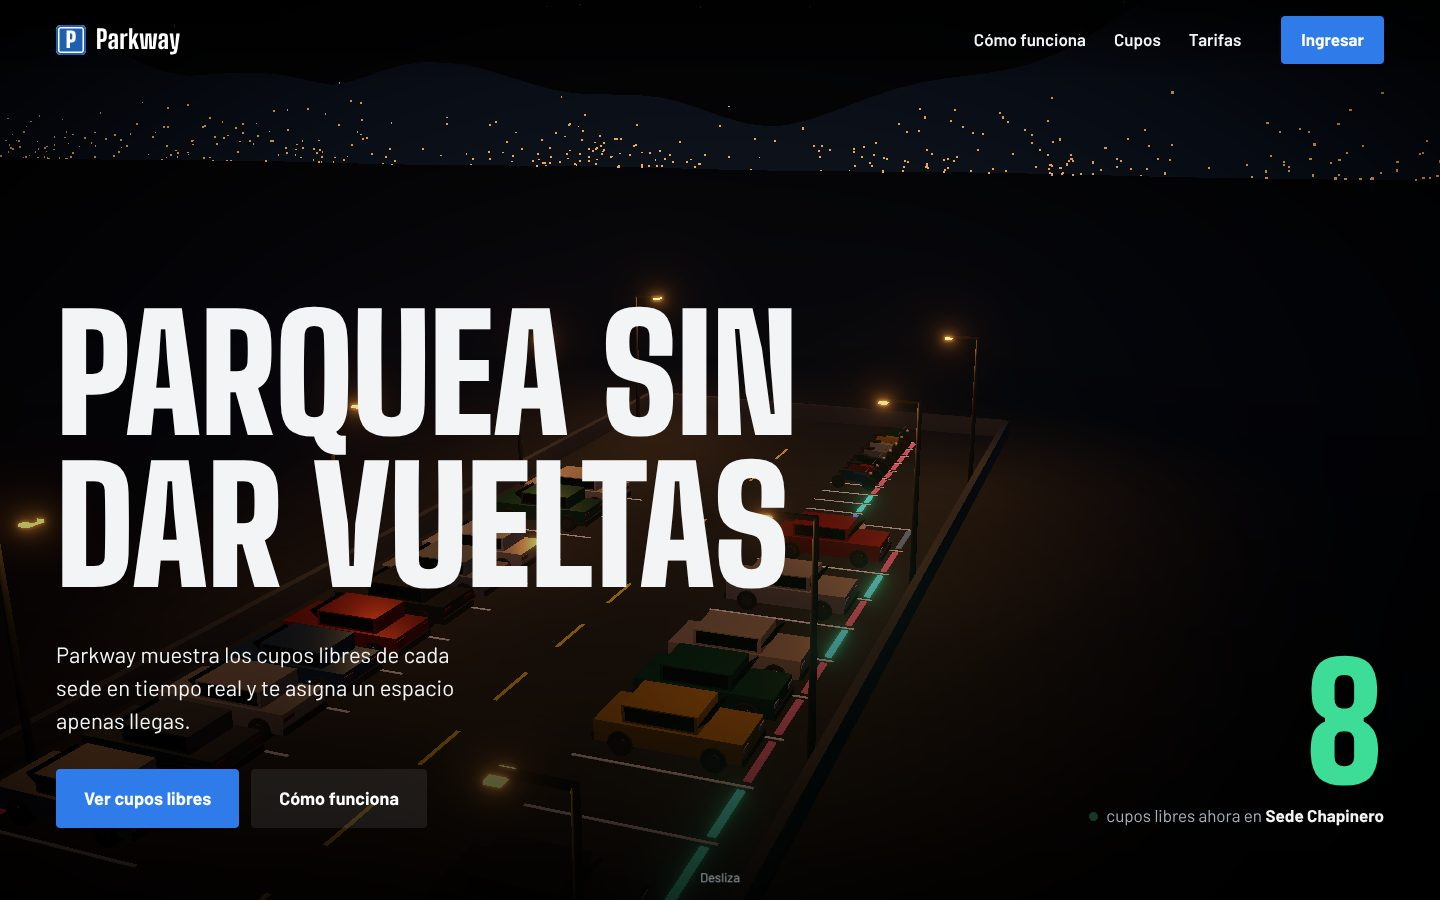
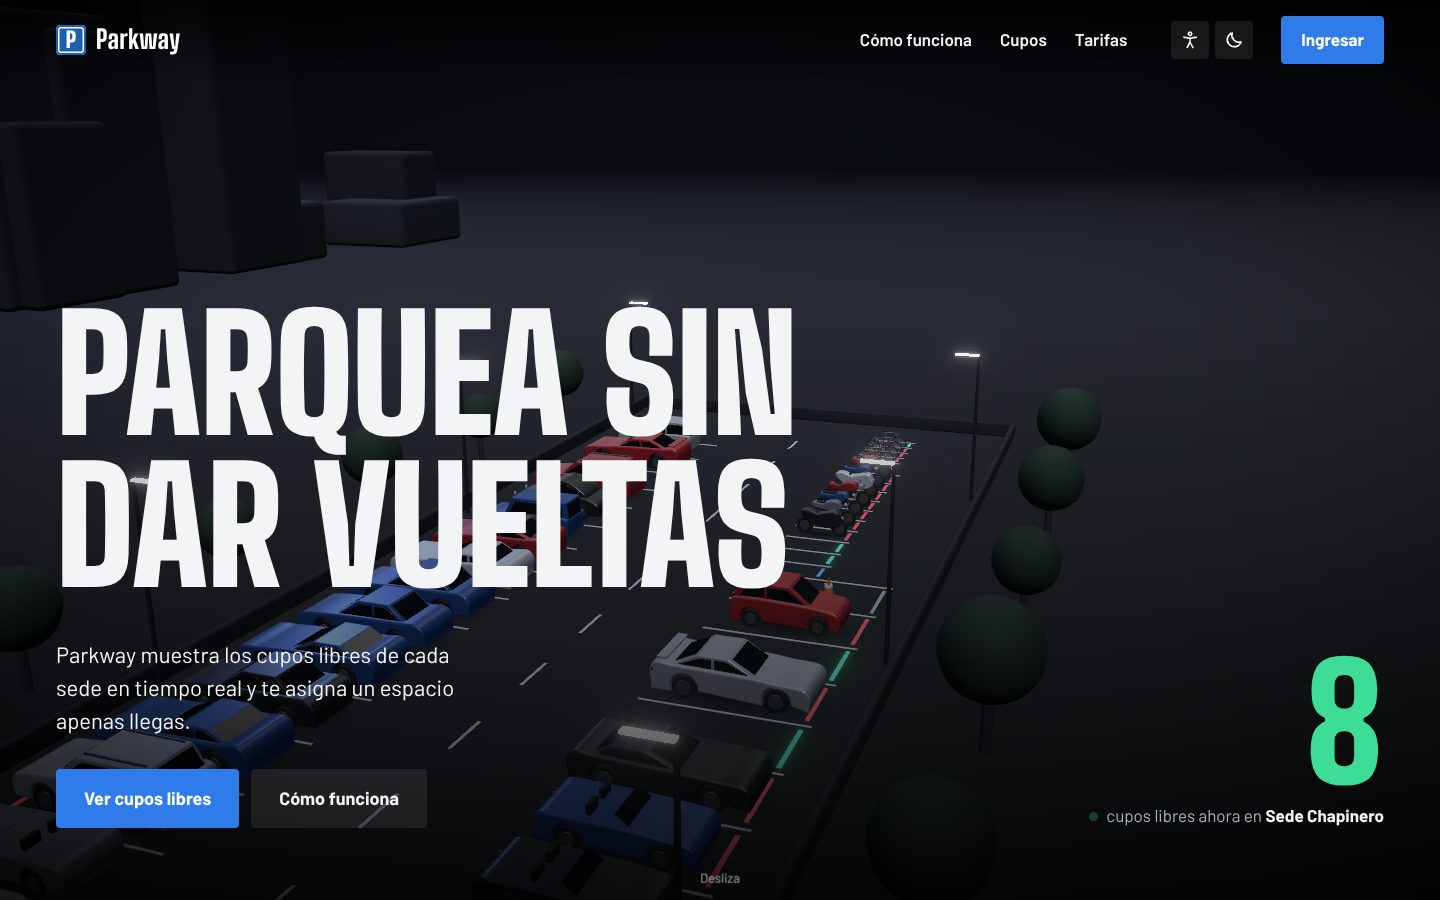
Documentación y capturas de las nuevas funciones

diff --git a/README.md b/README.md
@@ -2,8 +2,9 @@
 
 Sistema transaccional para la gestión de parqueaderos. Muestra los cupos
 libres de cada sede en tiempo real, registra ingresos y salidas con cálculo
-automático del cobro, permite a los clientes reservar un espacio antes de
-llegar y deja cada operación en una bitácora.
+automático del cobro, permite a los clientes reservar un espacio dentro del
+horario de la sede y deja cada operación en una bitácora. El administrador
+crea las sedes con sus espacios, tarifas, horario y operadores.
 
 Proyecto de Sistemas Transaccionales, Universidad Manuela Beltrán.
 Grupo 2: Bryan Failach, Alejandro Castellanos y Brayan Bello.
@@ -26,9 +27,13 @@ en pocos segundos.
 | Rol | Funciones |
 | --- | --- |
 | Visitante | Ver los cupos libres por sede, el recorrido de cómo funciona y calcular el cobro. |
-| Cliente | Crear su cuenta, registrar sus vehículos, reservar un espacio por 30 minutos, ver su vehículo dentro con el valor acumulado y consultar su historial. |
-| Operador | Registrar ingresos (con asignación automática de espacio) y salidas, ver las reservas que vienen en camino, los vehículos dentro, el plano 3D y el historial del día. |
-| Administrador | Todo lo del operador, más la bitácora de transacciones. |
+| Cliente | Crear su cuenta, registrar sus vehículos (las bicicletas reciben un código BICI), reservar un espacio por 30 minutos dentro del horario de la sede, ver su vehículo dentro con el valor acumulado, configurar avisos de tiempo y dinero y consultar su historial. |
+| Operador | Registrar ingresos y salidas en las sedes que tiene asignadas. Al digitar una placa conocida, el formulario trae la marca y el color guardados. Ve las reservas en camino, los vehículos dentro, el plano 3D y 2D y el historial con filtros. |
+| Administrador | Todo lo del operador en todas las sedes, más la creación y edición de sedes (espacios, tarifas, horario, espacios fuera de servicio y operadores) y la bitácora de transacciones. |
+
+Todos los usuarios pueden cambiar entre modo oscuro y claro y ajustar la
+accesibilidad: tamaño del texto, alto contraste, movimiento reducido, letra de
+lectura fácil, símbolos de estado en el plano y plano 2D en lugar del 3D.
 
 El detalle de cada pantalla, con capturas, está en
 [docs/FRONTEND.md](docs/FRONTEND.md).
@@ -47,7 +52,10 @@ El detalle de cada pantalla, con capturas, está en
 | Actualización de la disponibilidad sin recargar la página | RF12 | Consulta cada 5 s. WebSocket en la siguiente fase |
 | Historial de salidas y totales del día | RF13 | Implementado |
 | Bitácora de transacciones con consulta para el administrador | RF14, RNF08 | Implementado |
-| Pagos y comprobantes, anulación, gestión de tarifas y usuarios | RF02, RF08, RF09, RF11 | Siguiente fase |
+| Gestión de sedes: espacios, tarifas por sede, horario, fuera de servicio y operadores asignados | RF11 | Implementado |
+| Horario de atención: no se aceptan reservas fuera del horario | RF10 | Implementado |
+| Notificaciones configurables de tiempo, valor y vencimiento de la reserva | RF03 | Implementado |
+| Pagos y comprobantes, anulación, gestión de usuarios | RF02, RF08, RF09 | Siguiente fase |
 | Predicción de ocupación con IA | RF15 | Diseñado en el documento maestro (sección 13) |
 
 ## Tecnologías
@@ -130,6 +138,25 @@ minutos iniciada por el valor de la fracción. El cobro de un día nunca supera
 el valor día. Ejemplo para automóvil: 1 h 20 min cuesta $4.000 + 2 × $1.500 =
 $7.000.
 
+**Datos guardados del vehículo.** Cuando el operador digita una placa que ya
+existe, el formulario de ingreso trae la marca y el color guardados y dice de
+quién es el vehículo. El operador puede cambiarlos; al registrar, el vehículo
+queda con los datos que confirmó.
+
+**Bicicletas.** No tienen placa. Al agregar una bicicleta, el cliente recibe
+un código único (BICI001, BICI002...) que le dice al operador al llegar. En el
+ingreso, el operador busca el código; si la bicicleta llega sin registro, el
+sistema genera uno nuevo.
+
+**Sedes y operadores.** Cada sede tiene sus propias tarifas y su horario por
+día de la semana. Un operador solo puede registrar ingresos y salidas en las
+sedes que el administrador le asignó. Al reducir los espacios de una sede se
+quitan los libres de número más alto que nunca se usaron; los que tienen
+historial se conservan.
+
+**Horario.** El cliente no puede reservar si la sede está cerrada o si cierra
+antes de que venza la reserva.
+
 **Reservas (RF10).** El cliente reserva con uno de sus vehículos y el sistema
 aparta el primer espacio libre de ese tipo, que queda RESERVADO y no se cuenta
 como libre. Tiene 30 minutos para llegar (`RESERVA_MINUTOS` en `backend/.env`).
@@ -144,9 +171,9 @@ la reserva se cancela.
 - Un espacio no puede quedar asignado a dos vehículos, ni con varios
   operadores registrando ingresos al mismo tiempo (`FOR UPDATE SKIP LOCKED` e
   índices únicos parciales).
-- La placa debe coincidir con el formato del tipo: automóvil `ABC123`,
-  motocicleta `ABC12D` y bicicleta, un código de 3 a 10 caracteres. Las
-  bicicletas no llevan marca.
+- La placa debe coincidir con el formato del tipo: automóvil `ABC123` y
+  motocicleta `ABC12D`. Las bicicletas usan el código `BICI001` que asigna el
+  sistema y no llevan marca.
 - Los datos se validan en el formulario y otra vez en el backend.
 - Cada operación queda en la tabla `transaccion` con el usuario, el resultado
   y, si falló, el motivo.
@@ -155,12 +182,12 @@ la reserva se cancela.
 
 ```bash
 cd backend
-npm test                                   # 16 pruebas unitarias: tarifas, placas, cuentas y vehículos
+npm test                                   # 28 pruebas unitarias: tarifas, placas, cuentas, vehículos, horarios y sedes
 npx tsx scripts/pruebaConcurrencia.ts 20   # con el backend corriendo
 ```
 
-La prueba de concurrencia envía 20 ingresos simultáneos de bicicleta a la
-Sede Zona T, que tiene 3 espacios. Resultado: 3 aceptados, 17 rechazados con
+La prueba de concurrencia, con la base recién cargada con `seed.sql`, envía
+20 ingresos simultáneos de bicicleta a la Sede Zona T, que tiene 3 espacios. Resultado: 3 aceptados, 17 rechazados con
 código 409 y ningún espacio duplicado (RNF03).
 
 ## Estructura del repositorio
@@ -169,13 +196,13 @@ código 409 y ningún espacio duplicado (RNF03).
 Parkway/
 ├── database/
 │   ├── schema.sql          # Tablas, claves, restricciones e índices
-│   ├── seed.sql            # Usuarios, sedes, 65 espacios y tarifas de prueba
+│   ├── seed.sql            # Usuarios, sedes, 71 espacios y tarifas de prueba
 │   └── demo.sql            # Vehículos dentro, salidas, reservas y bitácora de ejemplo
 ├── backend/
 │   ├── src/
-│   │   ├── routes/         # Rutas Express por módulo (auth, estacionamiento, cliente, admin)
+│   │   ├── routes/         # Rutas Express por módulo (auth, catálogos, estacionamiento, cliente, admin)
 │   │   ├── controllers/    # Reciben la petición y responden
-│   │   ├── services/       # Reglas de negocio: ingreso, salida, reservas, tarifas, sesión
+│   │   ├── services/       # Reglas de negocio: ingreso, salida, reservas, horarios, sedes, acceso, tarifas
 │   │   ├── validators/     # Validación de datos de entrada
 │   │   ├── repositories/   # Acceso a datos con SQL parametrizado
 │   │   ├── transactions/   # Gestor de transacciones (BEGIN/COMMIT/ROLLBACK y bitácora)
@@ -185,8 +212,8 @@ Parkway/
 │   └── scripts/            # Prueba de concurrencia
 ├── frontend/
 │   └── src/
-│       ├── pages/          # Una pantalla por función (cliente/ para las del cliente)
-│       ├── components/     # Placa, Tiquete, Selector, Odometro, diálogos
+│       ├── pages/          # Una pantalla por función (cliente/ y admin/ por rol)
+│       ├── components/     # Placa, Tiquete, Selector, apariencia, notificaciones, diálogos
 │       ├── three/          # Escena 3D del parqueadero
 │       └── lib/            # Cliente de la API, formatos, rutas y cálculo de tarifa
 ├── render.yaml             # Despliegue en Render
@@ -208,13 +235,17 @@ Parkway/
 | POST | `/api/auth/registro` | Público | Crea una cuenta de cliente e inicia la sesión |
 | GET | `/api/auth/me` | Sesión | Usuario de la sesión |
 | GET | `/api/catalogos/parqueaderos` | Público | Sedes |
-| GET | `/api/catalogos/tipos-vehiculo` | Público | Tipos de vehículo con tarifa vigente |
+| GET | `/api/catalogos/tipos-vehiculo?idParqueadero=1` | Público | Tipos de vehículo con la tarifa vigente de la sede |
+| GET | `/api/catalogos/parqueaderos/:id/horario` | Público | Horario de la sede y si está abierta ahora |
 | GET | `/api/estacionamiento/resumen?idParqueadero=1` | Público | Cupos por tipo de vehículo |
 | GET | `/api/estacionamiento/disponibilidad?idParqueadero=1&idTipo=1` | Público | Espacios libres |
 | GET | `/api/estacionamiento/plano?idParqueadero=1` | Público | Estado de cada espacio, sin placas |
+| GET | `/api/estacionamiento/mis-sedes` | Personal | Sedes asignadas al operador (todas para el administrador) |
+| GET | `/api/estacionamiento/vehiculos?q=BICI0&idTipo=3` | Personal | Buscar vehículos por placa o código |
+| GET | `/api/estacionamiento/vehiculos/:placa` | Personal | Marca, color y dueño guardados de un vehículo |
 | GET | `/api/estacionamiento/espacios?idParqueadero=1` | Personal | Plazas con la placa del vehículo o de la reserva |
 | GET | `/api/estacionamiento/activos?idParqueadero=1&placa=ABC` | Personal | Vehículos dentro y valor acumulado |
-| GET | `/api/estacionamiento/historial?idParqueadero=1&desde=…&hasta=…` | Personal | Salidas registradas |
+| GET | `/api/estacionamiento/historial?idParqueadero=1&placa=…&idTipo=…&marca=…&color=…&desde=…&hasta=…&minutosMin=…&minutosMax=…&valorMin=…&valorMax=…&orden=…&agrupar=vehiculo` | Personal | Salidas registradas con filtros, o totales por vehículo |
 | GET | `/api/estacionamiento/totales-dia?idParqueadero=1` | Personal | Ingresos, salidas y valor del día |
 | GET | `/api/estacionamiento/reservas?idParqueadero=1` | Personal | Reservas activas y del día, con el cliente |
 | POST | `/api/estacionamiento/ingreso` | Personal | Registra un ingreso |
@@ -225,6 +256,11 @@ Parkway/
 | DELETE | `/api/cliente/vehiculos/:placa` | Cliente | Quitar un vehículo de la cuenta |
 | GET, POST | `/api/cliente/reservas` | Cliente | Consultar y crear reservas |
 | POST | `/api/cliente/reservas/:idReserva/cancelar` | Cliente | Cancelar una reserva activa |
+| GET, PUT | `/api/cliente/preferencias` | Cliente | Configuración de las notificaciones |
+| GET, POST | `/api/admin/parqueaderos` | Administrador | Consultar y crear sedes con espacios, tarifas, horario y operadores |
+| GET, PUT | `/api/admin/parqueaderos/:id` | Administrador | Consultar y editar una sede |
+| PATCH | `/api/admin/espacios/:id` | Administrador | Marcar un espacio fuera de servicio o habilitarlo |
+| GET | `/api/admin/operadores` | Administrador | Operadores disponibles para asignar |
 | GET | `/api/admin/bitacora?tipo=…&estado=…&desde=…&hasta=…` | Administrador | Bitácora de transacciones |
 
 Errores: 400 si un campo no es válido (con el detalle por campo), 401 sin
@@ -242,7 +278,7 @@ curl -X POST http://localhost:3000/api/estacionamiento/ingreso \
 ## Siguientes pasos
 
 - Pagos con pasarela, comprobantes y anulación (RF08, RF09).
-- Gestión de tarifas y usuarios desde el panel del administrador (RF02, RF11).
+- Gestión de usuarios desde el panel del administrador (RF02).
 - Actualización en tiempo real con WebSocket en lugar de consultas cada 5
   segundos (RF12).
 - Predicción de ocupación por hora con Prophet, a partir del historial de

diff --git a/docs/FRONTEND.md b/docs/FRONTEND.md
@@ -1,9 +1,10 @@
 # Frontend de Parkway
 
-Aplicación web en React 18 con TypeScript y Vite. Usa modo oscuro con el azul
-de la señal de parqueadero como color de acción; el amarillo se reserva para
-las placas. Tiene una escena 3D del parqueadero hecha con Three.js que dibuja
-cada plaza con su estado real en la base de datos.
+Aplicación web en React 18 con TypeScript y Vite. Tiene modo oscuro y claro,
+con el azul de la señal de parqueadero como color de acción; el amarillo se
+reserva para las placas. Una escena 3D hecha con Three.js dibuja cada plaza
+con su estado real en la base de datos y cada carro con la silueta del modelo
+más conocido de su marca.
 
 ## Contenido
 
@@ -11,7 +12,8 @@ cada plaza con su estado real en la base de datos.
 - [Ingreso y creación de cuenta](#ingreso-y-creación-de-cuenta)
 - [Pantallas del cliente](#pantallas-del-cliente)
 - [Pantallas del operador](#pantallas-del-operador)
-- [Pantalla del administrador](#pantalla-del-administrador)
+- [Pantallas del administrador](#pantallas-del-administrador)
+- [Modo claro y accesibilidad](#modo-claro-y-accesibilidad)
 - [En el celular](#en-el-celular)
 - [Cómo está hecha la escena 3D](#cómo-está-hecha-la-escena-3d)
 - [Organización del código](#organización-del-código)
@@ -55,27 +57,41 @@ enviar y otra vez en el backend.
 
 ## Pantallas del cliente
 
-Pestañas: Mi parqueo, Mis vehículos, Cupos por sede y Mi historial.
+Pestañas: Mi parqueo, Mis vehículos, Cupos por sede, Mi historial y
+Notificaciones.
 
 - **Mi parqueo.** Si tiene una reserva, muestra el espacio, la cuenta
   regresiva de 30 minutos y el plano 3D con su plaza parpadeando en azul. Si
   su vehículo está dentro, muestra el espacio, el tiempo y el valor
   acumulado, que se actualiza cada segundo. Si no tiene nada activo, muestra
-  el formulario para reservar.
+  el formulario para reservar con el horario de la sede. Si la sede está
+  cerrada o cierra antes de que venza la reserva, el botón se desactiva y el
+  backend también rechaza la reserva.
 - **Mis vehículos.** Agrega placas con la validación por tipo. Marca y color
   se eligen de una lista con la opción "Otro" al final; las marcas cambian
-  según sea carro o moto y las bicicletas no llevan marca.
+  según sea carro o moto. Las bicicletas no tienen placa ni marca: al
+  agregarlas, el sistema les da un código único (BICI001, BICI002...) que el
+  cliente le dice al operador al llegar.
 - **Cupos por sede.** El plano 3D de cada sede, sin placas de otros clientes.
 - **Mi historial.** Visitas con su valor y reservas con su estado.
+- **Notificaciones.** El cliente elige cada cuánto ver el tiempo y el valor
+  acumulado de su vehículo, un tope de dinero para recibir un aviso, cuántos
+  minutos antes avisar que vence la reserva y si quiere avisos de entrada y
+  salida. Se guardan en su cuenta. Los avisos aparecen en la página y,
+  si el cliente lo permite, también como notificaciones del navegador.
 
 | Reserva activa | Mis vehículos | Cupos por sede |
 | --- | --- | --- |
 | ![Reserva](capturas/10_cliente_reserva.jpg) | ![Vehículos](capturas/11_cliente_vehiculos.jpg) | ![Cupos](capturas/12_cliente_cupos.jpg) |
 
+| Bicicleta con su código | Notificaciones |
+| --- | --- |
+| ![Bicicleta](capturas/29_cliente_bicicleta.jpg) | ![Notificaciones](capturas/30_notificaciones.jpg) |
+
 ## Pantallas del operador
 
 Pestañas: Disponibilidad, Registrar ingreso, En el parqueadero, Reservas e
-Historial.
+Historial. El selector de sede muestra solo las sedes asignadas al operador.
 
 **Registrar ingreso.** El campo de placa tiene la forma de una placa de
 Bogotá y valida el formato según el tipo de vehículo. Al registrar, el
@@ -84,6 +100,16 @@ sistema asigna el espacio y "imprime" el tiquete.
 | Validación de placa | Ingreso registrado |
 | --- | --- |
 | ![Validación](capturas/13_validacion_placa.jpg) | ![Ingreso](capturas/14_ingreso.jpg) |
+
+Si la placa ya existe, el formulario dice de quién es el vehículo y llena la
+marca y el color guardados; el operador puede cambiarlos. Para bicicletas, el
+operador busca el código que dio el cliente; la lista muestra el color, el
+dueño y si ya está dentro. Si la bicicleta llega sin registro, se le genera un
+código al registrar el ingreso.
+
+| Datos guardados del vehículo | Búsqueda de bicicleta |
+| --- | --- |
+| ![Datos guardados](capturas/25_ingreso_datos_guardados.jpg) | ![Bicicleta](capturas/26_ingreso_bicicleta.jpg) |
 
 **Reservas.** Lista a los clientes que vienen en camino, con su teléfono, el
 espacio apartado y el tiempo que les queda. El botón "Registrar ingreso" abre
@@ -97,29 +123,68 @@ reservado y el tiquete lo indica.
 
 **Disponibilidad.** Cupos por tipo, movimiento del día y el plano 3D, que se
 gira con el mouse. Al pasar sobre una plaza muestra su código y la placa; un
-clic sobre un vehículo abre el registro de su salida. La vista "Plano" ofrece
-lo mismo en 2D.
+clic abre el detalle de la plaza, desde donde se registra la salida. La vista "Plano" muestra
+en cada plaza la placa o el código de bicicleta del vehículo; al hacer clic se
+abre el detalle con el vehículo, el dueño, la hora de ingreso, el valor hasta
+ahora y el botón para registrar la salida.
 
 | Disponibilidad | Salida desde el plano 3D | Salida registrada |
 | --- | --- | --- |
 | ![Disponibilidad](capturas/18_disponibilidad.jpg) | ![Salida 3D](capturas/19_salida_desde_3d.jpg) | ![Salida](capturas/20_salida.jpg) |
 
+![Plano 2D con el detalle de una plaza](capturas/27_plano_detalle.jpg)
+
 **En el parqueadero** lista los vehículos dentro con su tiempo y valor
 acumulado, y permite registrar la salida. **Historial** muestra las salidas
-con filtros por placa y fechas, y el total cobrado.
+con filtros por placa o código, tipo de vehículo, marca, color, fechas, horas
+de permanencia y valor pagado, y se puede ordenar por fecha, valor o tiempo.
+La vista "Por vehículo" suma las visitas, el tiempo y el dinero de cada
+vehículo.
 
 | En el parqueadero | Historial |
 | --- | --- |
-| ![Activos](capturas/21_en_el_parqueadero.jpg) | ![Historial](capturas/22_historial.jpg) |
+| ![Activos](capturas/21_en_el_parqueadero.jpg) | ![Historial con filtros](capturas/28_historial_filtros.jpg) |
 
-## Pantalla del administrador
+## Pantallas del administrador
 
-Tiene las mismas pestañas del operador más **Bitácora**: todas las
+Tiene las mismas pestañas del operador, en todas las sedes, más **Sedes** y
+**Bitácora**.
+
+**Sedes.** El administrador crea o edita cada sede con:
+
+- nombre, dirección, ciudad y coordenadas;
+- cantidad de espacios y tarifa (hora, fracción de 15 minutos y día) por tipo
+  de vehículo;
+- horario de atención por día de la semana, con atajos para 24 horas o lunes
+  a sábado;
+- los operadores que tienen acceso a la sede.
+
+Mientras edita, la vista previa 3D se arma con los espacios del formulario.
+En una sede existente, un clic sobre un espacio libre lo marca fuera de
+servicio o lo habilita de nuevo.
+
+| Lista de sedes | Editar una sede | Horario y operadores |
+| --- | --- | --- |
+| ![Sedes](capturas/31_sedes.jpg) | ![Editar](capturas/32_editar_sede.jpg) | ![Horario](capturas/33_horario_operadores.jpg) |
+
+**Bitácora:** todas las
 operaciones del sistema con su usuario, resultado y detalle, filtrables por
 operación, resultado y fechas. Las operaciones revertidas muestran el motivo
 del error.
 
 ![Bitácora](capturas/23_bitacora.jpg)
+
+## Modo claro y accesibilidad
+
+El botón de la luna cambia entre modo oscuro y claro; la escena 3D cambia
+con él. El botón de accesibilidad abre un panel con tamaño del texto, alto
+contraste, movimiento reducido, letra de lectura fácil, símbolos de estado en
+el plano (para no depender solo del color) y plano 2D en lugar del 3D. Las
+opciones se guardan en el navegador.
+
+| Modo claro | Cliente en modo claro | Accesibilidad |
+| --- | --- | --- |
+| ![Modo claro](capturas/35_modo_claro.jpg) | ![Cliente claro](capturas/36_cliente_claro.jpg) | ![Accesibilidad](capturas/34_accesibilidad.jpg) |
 
 ## En el celular
 
@@ -131,7 +196,15 @@ portada mira a lo largo del carril y los textos pasan a una sola columna.
 ## Cómo está hecha la escena 3D
 
 La escena no usa modelos descargados ni imágenes: todo se dibuja con código a
-partir de los datos de la base.
+partir de los datos de la base, con el aspecto de una maqueta de
+presentación: superficies mate, luz suave y sombras difusas.
+
+**Vehículos por marca.** Cada carro se construye extruyendo una silueta
+lateral simplificada, al estilo de los íconos de carros de las apps de
+transporte. `three/modelos.ts` asigna a cada marca la forma de su modelo más
+conocido (por ejemplo, Renault con un compacto alto tipo Renault 4, Ford con
+un fastback, Suzuki con un todoterreno pequeño) y toma el color guardado del
+vehículo. Las motos también cambian de forma según la marca.
 
 **Librerías.** Three.js dibuja en el navegador con WebGL. React Three Fiber
 permite escribir la escena como componentes de React. Drei aporta el control
@@ -146,9 +219,11 @@ una fila de plazas a cada lado, con medidas por tipo de vehículo (carro 2,7 ×
 
 | Archivo | Qué dibuja |
 | --- | --- |
-| `three/Vehiculo.tsx` | Carros, motos y bicicletas con primitivas; luces delanteras y traseras emisivas |
+| `three/modelos.ts` | Siluetas por marca y colores por nombre |
+| `three/Vehiculo.tsx` | Carros extruidos desde la silueta, motos y bicicletas; luces delanteras y traseras |
+| `three/tema.ts` | Paletas oscura y clara de la escena |
 | `three/Plazas.tsx` | Líneas, testigo de estado (verde libre, rojo ocupado, azul reservado), conos fuera de servicio, animación de entrada y salida |
-| `three/Entorno.tsx` | Barrera y caseta, postes de luz de sodio, calle con tráfico, edificios, cerros y Monserrate |
+| `three/Entorno.tsx` | Lote, barrera, postes, árboles y entorno de la portada |
 | `three/texturas.ts` | Placas y ventanas de edificios dibujadas en un canvas |
 | `three/Escena.tsx` | Cámara, luces, niebla y efectos |
 | `three/control.ts` | Estado compartido con la página, sin Three.js |
@@ -176,20 +251,23 @@ frontend/src/
 │   ├── Reservas.tsx        # Reservas de la sede (personal)
 │   ├── Historial.tsx       # Salidas registradas
 │   ├── Bitacora.tsx        # Bitácora (administrador)
-│   └── cliente/            # Mi parqueo, Mis vehículos, Mi historial
-├── components/             # Placa, Tiquete, Selector, CampoOpciones, Odometro, diálogos
+│   ├── admin/              # Sedes: crear y editar
+│   └── cliente/            # Mi parqueo, Mis vehículos, Mi historial, Notificaciones
+├── components/             # Placa, Tiquete, Selector, CampoOpciones, Apariencia, Notificador, diálogos
 ├── three/                  # Escena 3D
 ├── lib/
 │   ├── api.ts              # Cliente HTTP y tipos de la API
 │   ├── useConsulta.ts      # Consultas que se repiten cada N segundos
 │   ├── tarifa.ts           # Regla de cobro (igual a la del backend)
 │   ├── formato.ts          # Pesos, horas, duraciones y formatos de placa
+│   ├── apariencia.ts       # Tema y opciones de accesibilidad
 │   └── ruta.ts             # Rutas por hash (#/, #/ingresar, #/panel)
 └── styles.css              # Estilos y variables de color
 ```
 
 ## Diseño y accesibilidad
 
+- **Temas:** oscuro (por defecto) y claro, con un botón en el encabezado.
 - **Colores:** fondo negro, azul `#2f7bea` para botones, enlaces y foco, y
   amarillo `#f5c518` solo para placas. En los planos, verde es libre, rojo
   ocupado y azul reservado.
